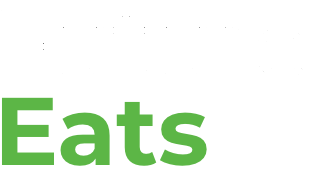
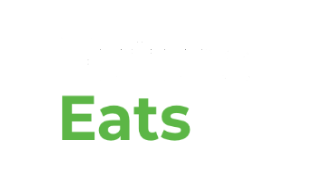
Finalizando a pagina inicial

Changed region(s): [[0.0, 0.546, 0.6635, 0.977]]

diff --git a/labefood/src/pages/OpeningPage/OpeningPage.js b/labefood/src/pages/OpeningPage/OpeningPage.js
@@ -1,10 +1,21 @@
 import React from 'react'
+import { useEffect } from "react"
+import { useNavigate } from "react-router-dom"
+import openHome from "../../assets/openHome.png"
+import { goToFeedPage } from "../../routes/coodinator"
+import { OpeningDiv } from "./styled"
 
 const OpeningPage = () => {
+   const navigate = useNavigate()
+
+   useEffect(() => {
+      setTimeout(() => { goToFeedPage(navigate) }, 10000)
+   }, [])
+
    return (
-      <div>
-         <h1>Pagina inicial</h1>
-      </div>
+      <OpeningDiv>
+         <img src={openHome} alt="logo Future Eats" />
+      </OpeningDiv>
    )
 }
 

diff --git a/labefood/src/hooks/useProtectedPage.js b/labefood/src/hooks/useProtectedPage.js
@@ -1,6 +1,6 @@
 import { useNavigate } from 'react-router-dom'
 import { useLayoutEffect } from 'react'
-import { goToLoginPage } from '../routes/coordinator'
+import { goToLoginPage } from '../routes/coodinator'
 
 const useProtectedPage = () => {
 

diff --git a/labefood/src/pages/OpeningPage/styled.js b/labefood/src/pages/OpeningPage/styled.js
@@ -1,0 +1,9 @@
+import styled from 'styled-components';
+
+export const OpeningDiv = styled.div`
+    display: flex;
+    justify-content: center;
+    align-items: center;
+    background-color: #000000;
+    height: 100vh;
+`

diff --git a/labefood/src/pages/FeedPage/FeedPage.js b/labefood/src/pages/FeedPage/FeedPage.js
@@ -1,6 +1,8 @@
 import React from 'react'
+import useProtectdPage from "../../hooks/useProtectedPage"
 
 const FeedPage = () => {
+   useProtectdPage()
    return (
       <div>
          Home cards inicial
